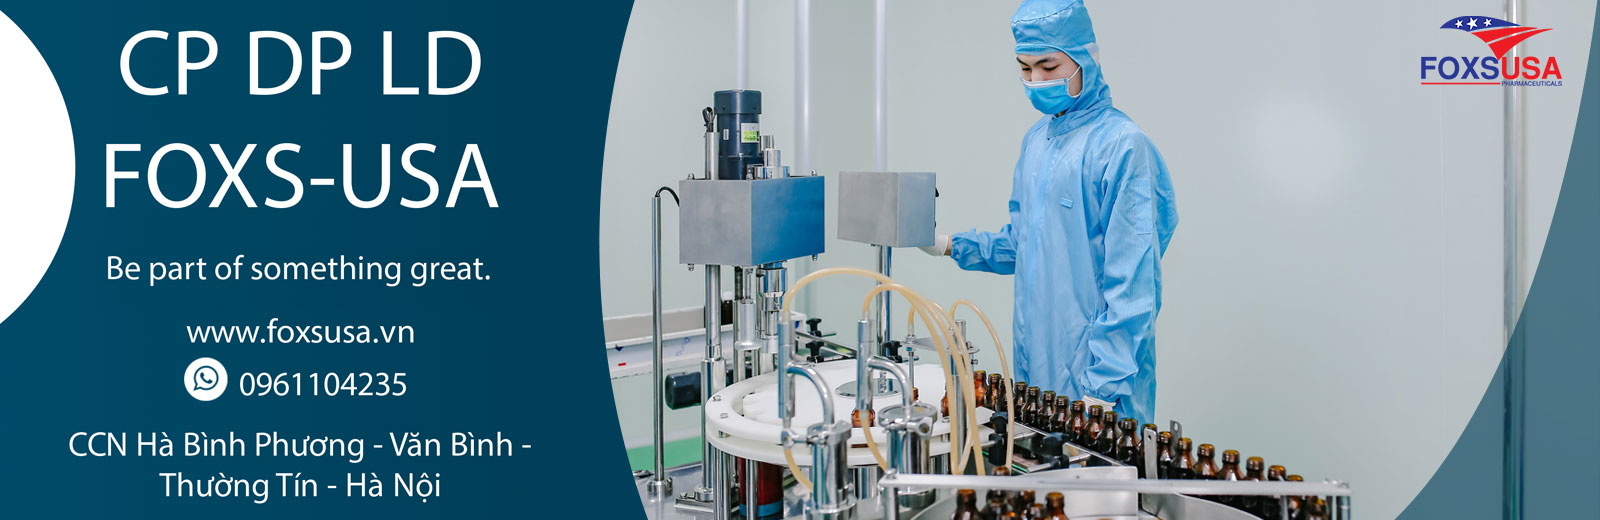
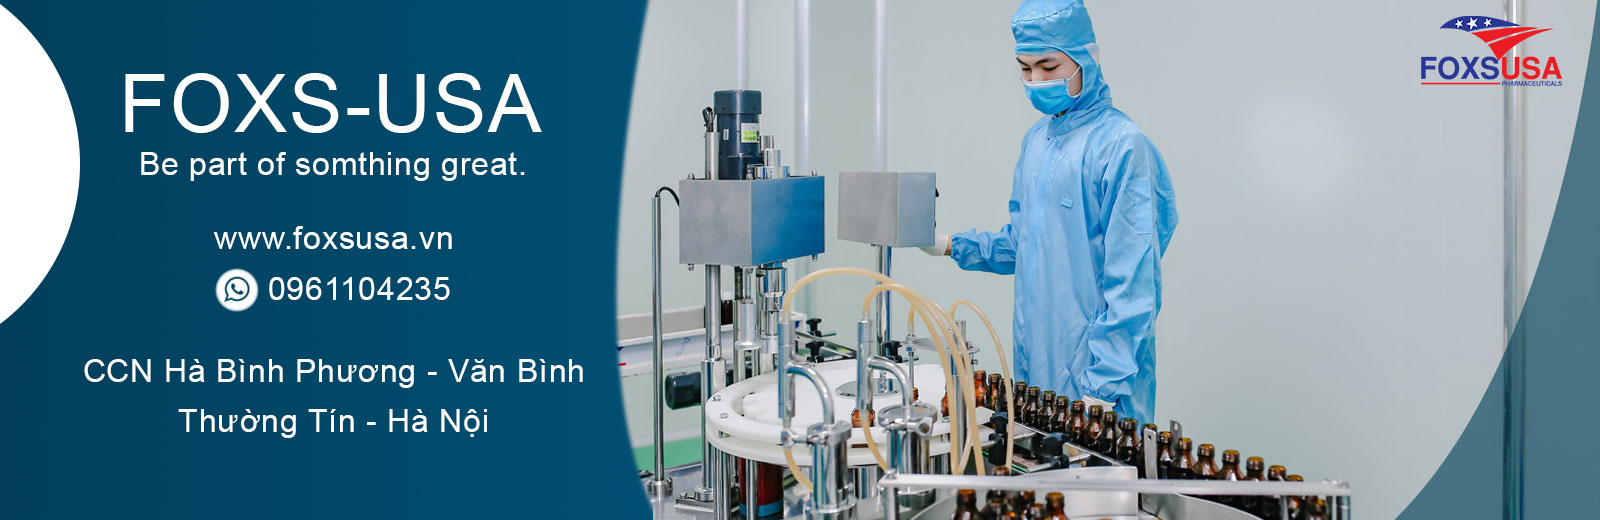
edit home

Changed region(s): [[0.0312, 0.0, 0.4062, 1.0], [0.0312, 0.0615, 0.3438, 0.4], [0.0, 0.0, 0.0312, 0.1231]]

diff --git a/src/app/components/slide/slide.component.html b/src/app/components/slide/slide.component.html
@@ -1,11 +1,14 @@
 <div id="carouselExampleIndicators" class="carousel slide" data-ride="carousel">
     <ol class="carousel-indicators">
       <li data-target="#carouselExampleIndicators" data-slide-to="0" class="active"></li>
-      <!-- <li data-target="#carouselExampleIndicators" data-slide-to="1"></li>       -->
+      <li data-target="#carouselExampleIndicators" data-slide-to="1"></li>      
     </ol>
     <div class="carousel-inner">
       <div class="carousel-item active">
         <img class="d-block w-100" src="../../../assets/images/slide_02.jpg" alt="First slide">
+      </div>
+      <div class="carousel-item">
+        <img class="d-block w-100" src="../../../assets/images/slide_01.jpg" alt="First slide">
       </div>      
     </div>
     <a class="carousel-control-prev" href="#carouselExampleIndicators" role="button" data-slide="prev">

diff --git a/src/app/components/header/header.component.html b/src/app/components/header/header.component.html
@@ -6,7 +6,8 @@
             </a>            
         </div>
         <div class="col-md-6 text-center">
-            <h1 class="title-web text-color">CÔNG TY CỔ PHẦN DƯỢC PHẨM LIÊN DOANH<br/>FOXS-USA</h1>
+            <h1 class="title-web text-color">CÔNG TY CỔ PHẦN DƯỢC PHẨM LIÊN DOANH FOXS-USA</h1>
+            <h6 class="text-color">CCN Hà Bình Phương - Văn Bình - Thường Tín - Hà Nội</h6>
         </div>
         <div class="col-md-3 text-center">
             <a href="tel:+842432008021">

diff --git a/src/app/components/slide-customer/slide-customer.component.css b/src/app/components/slide-customer/slide-customer.component.css
@@ -1,5 +1,4 @@
-#slide-customer {
-    background-color: #30a0d0;    
+#slide-customer {    
     margin-top: 40px;
     padding-bottom: 30px;
 }
